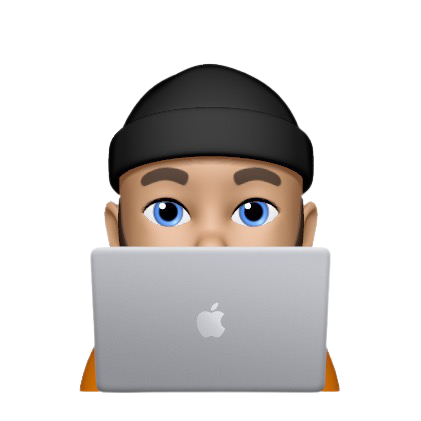
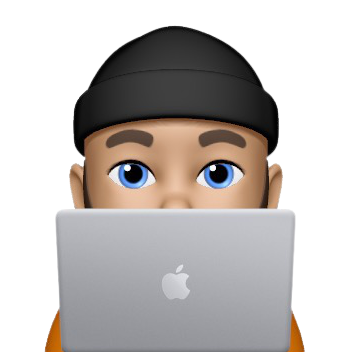
addressed responsiveness issues and element styling/spacing

Changed region(s): [[0.1232, 0.0625, 0.8627, 1.0], [0.4314, 0.7188, 0.5546, 0.875]]

diff --git a/project1.css b/project1.css
@@ -31,16 +31,18 @@
 
 .intro-section {
 	font-family: "Andale Mono";
-	display: flex;
 	justify-content: center;
 	align-items: center;
 	padding-left: 200px;
-	padding-bottom: 90px;
-	text-align: center;
 	color: #ffffff;
 	background-color: #fc7b03;
 	background-image: linear-gradient(to bottom right, #fc7b03, #000000);
+	position: relative;
 	height: 100vh;	
+}
+
+.intro-text {
+	text-align: center;
 }
 
 .intro1 {
@@ -53,8 +55,9 @@
 
 .intro-image img{
 	position: absolute;
-	left: 100px;
-	bottom: -28px;
+	bottom: 0;
+	left: 200px;
+	
 } 
 
 .about-section {
@@ -158,19 +161,7 @@ body {
 	flex-wrap: nowrap;
 }
 
-@media screen and (max-width: 800px) {
-	.contact-section, .intro-section, .portfolio-section, .about-section {
-		
-		padding: 20px;
-		height: auto;
-		flex-direction: column;
-		gap: 20px;
-	}
-	.project-containers {
-		flex-direction: column;
-		width: 100%;
-	}
-}
+
 
 .scroll-to-top-button {
   	position: fixed; 
@@ -191,5 +182,32 @@ body {
 
 .scroll-to-top-button:hover {
  	background-color: #db6a00; 
+}
 
+@media screen and (max-width: 800px) {
+	.contact-section, .intro-section, .portfolio-section, .about-section {
+		padding: 20px;
+		height: auto;
+		flex-direction: column;
+		gap: 20px;		
+	}
+	.navbar {
+justify-content: start;	
+	}
+	.about-text {
+		width: 100%;
+	}
+	.about-image {
+		position: relative;
+		bottom: 100px;
+	}
+	.project-containers {
+		flex-direction: column;
+		width: 100%;
+	}
+	.intro-image img {
+			height: 100px;
+			left: 20px;
+	}
+}
 

diff --git a/project1.html b/project1.html
@@ -3,8 +3,6 @@
 	<link rel="stylesheet" type="text/css" href="normalize.css">
 	<meta name="viewport" content="width=device-width, initial-scale=1.0">
 	<link rel="stylesheet" type="text/css" href="project1.css">
-	
-	
 </head>
 	<header>
 		<nav class="navbar">
@@ -47,11 +45,9 @@
 		   Liam 
 	    </p> 
 	</div>
-		<div class="about-image">
-			
-   			<img src="meandpup.png" alt="meandmydog">
-			
-	   	</div>
+	<div class="about-image">
+		<img src="meandpup.png" alt="meandmydog">
+	</div>
 		
 	</section>
 	
@@ -69,8 +65,7 @@
 			<div class="project-images"><a href="#"><img src="htmlicon.png"></a>
 			</div>
 			<div class="project-descriptors">
-				<p>As part of our first module a challenge was set, "Build the HTML5 logo using only HTML and CSS".
-				   The gauntlet was thrown down and I delivered. Behold. </p>
+				<p>As part of our first module a challenge was set, "Build the HTML5 logo using only HTML and CSS". The gauntlet was thrown down and I delivered. Behold. </p>
 			</div>
 		</div>
 		<div class="project-containers">
